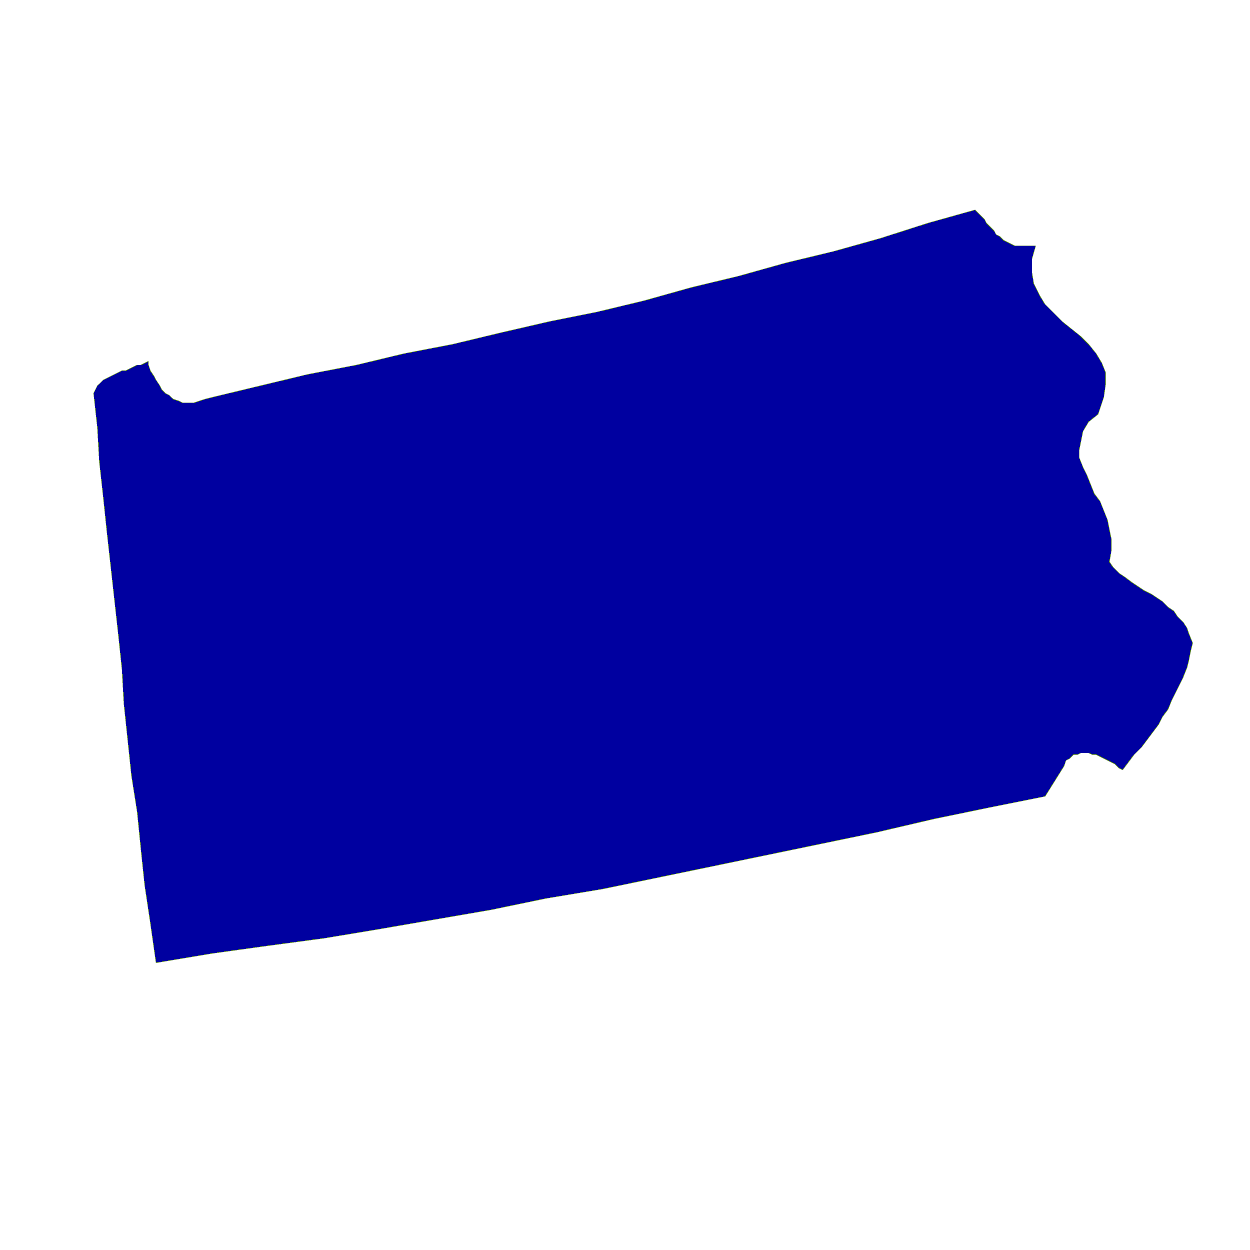
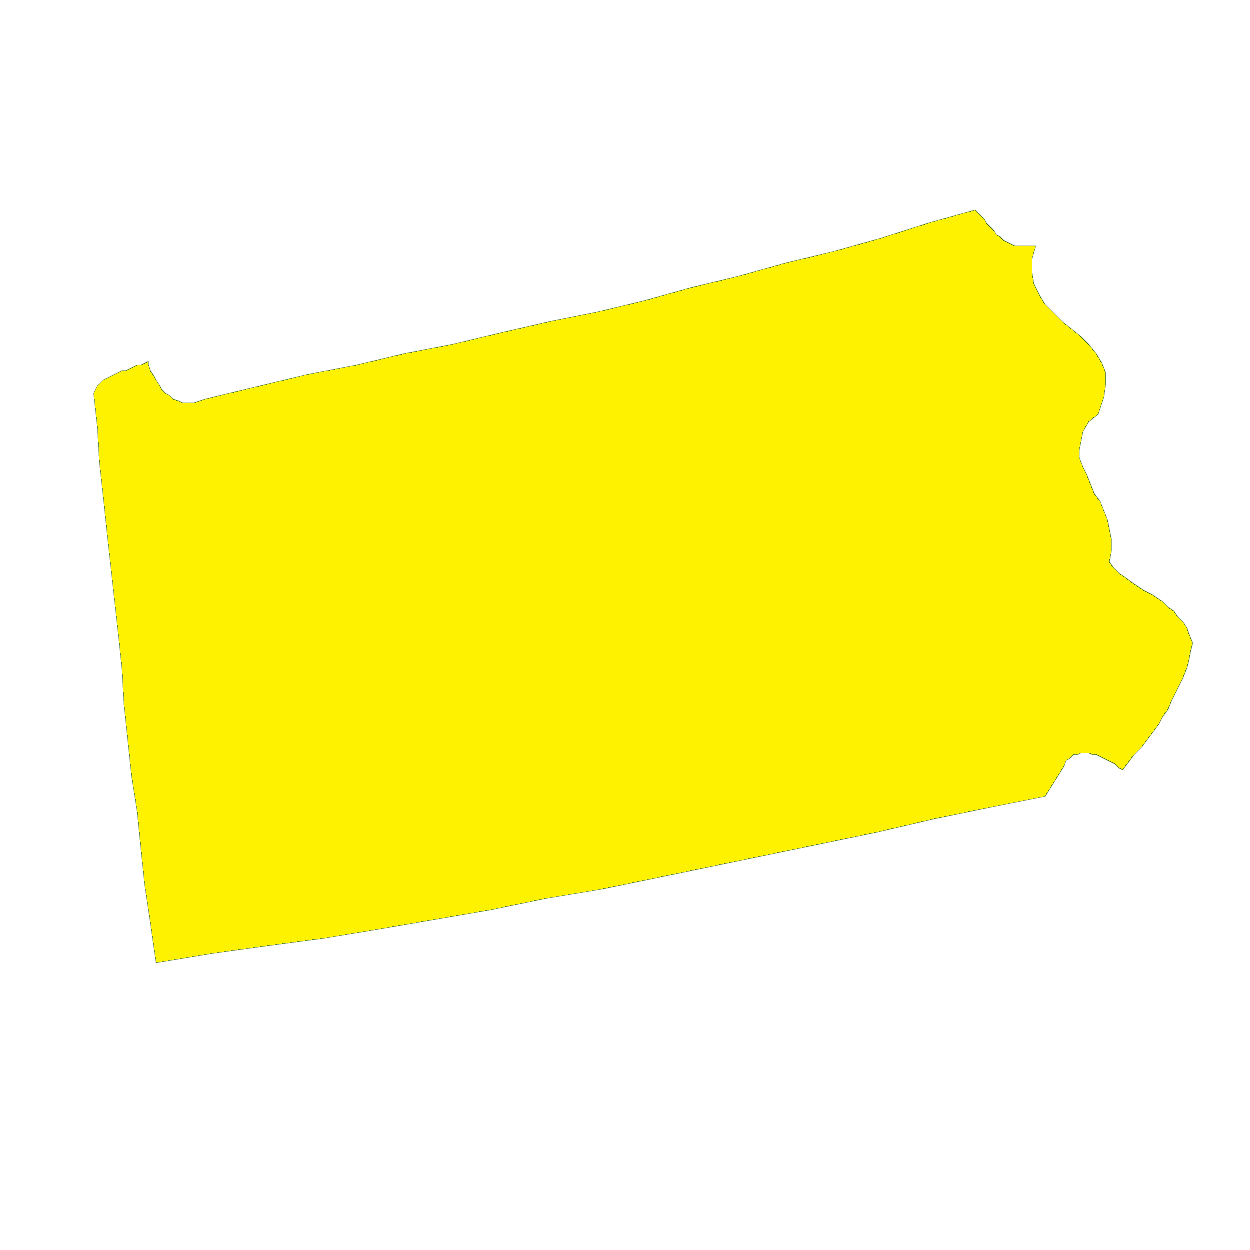
fixed sankey

diff --git a/index.html b/index.html
@@ -262,7 +262,7 @@
 		<div class="vertical-scrolling">
 			<div class="container">
 				<div class="row story" id="story-factors2">
-					<p> Note, too, that <span style="color:green;"><b>Colorado</b></span> (low funding) is much higher up on the left side of the chart than  <span style="color:darkblue;"><b>Pennsylvania</b></span>, and those two states had identical
+					<p> Note, too, that <span style="color:green;"><b>Colorado</b></span> (low funding) is much higher up on the left side of the chart than  <span style="color:goldenrod;"><b>Pennsylvania</b></span>, and those two states had identical
 						educational outcomes as we saw above. Perhaps this higher distribution of personal income has allowed <span style="color:green;"><b>Colorado</b></span> to make up in resource allocation
 						what it lost from lower per-student funding.
 					</p>
